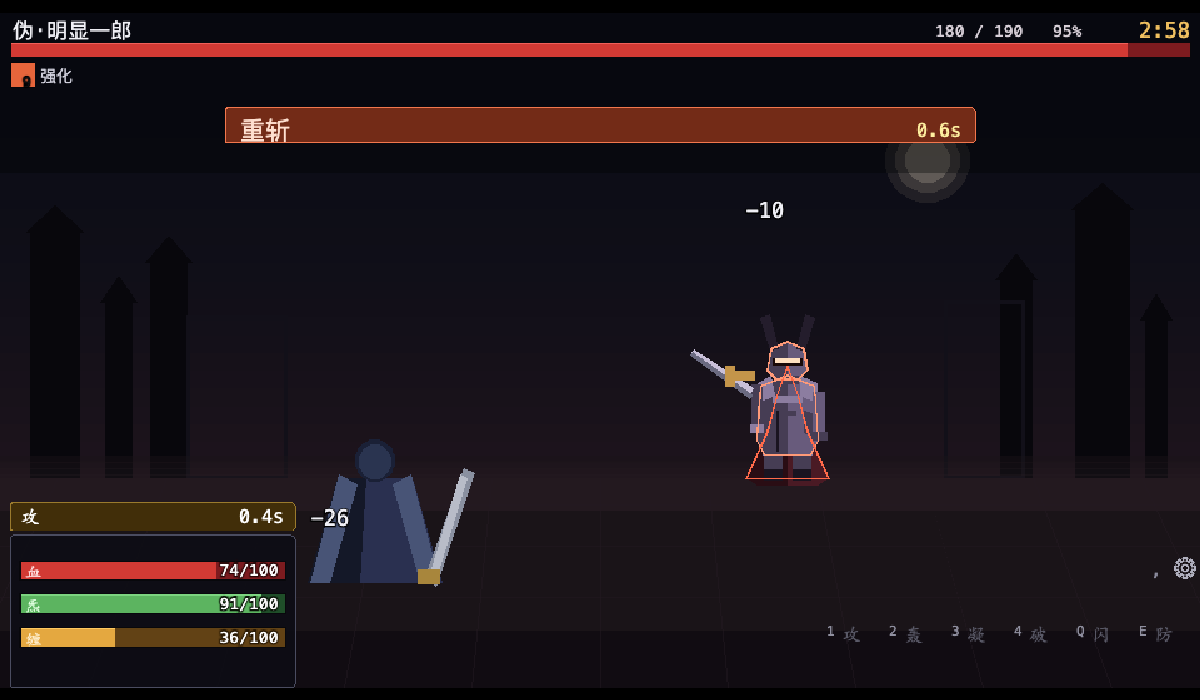
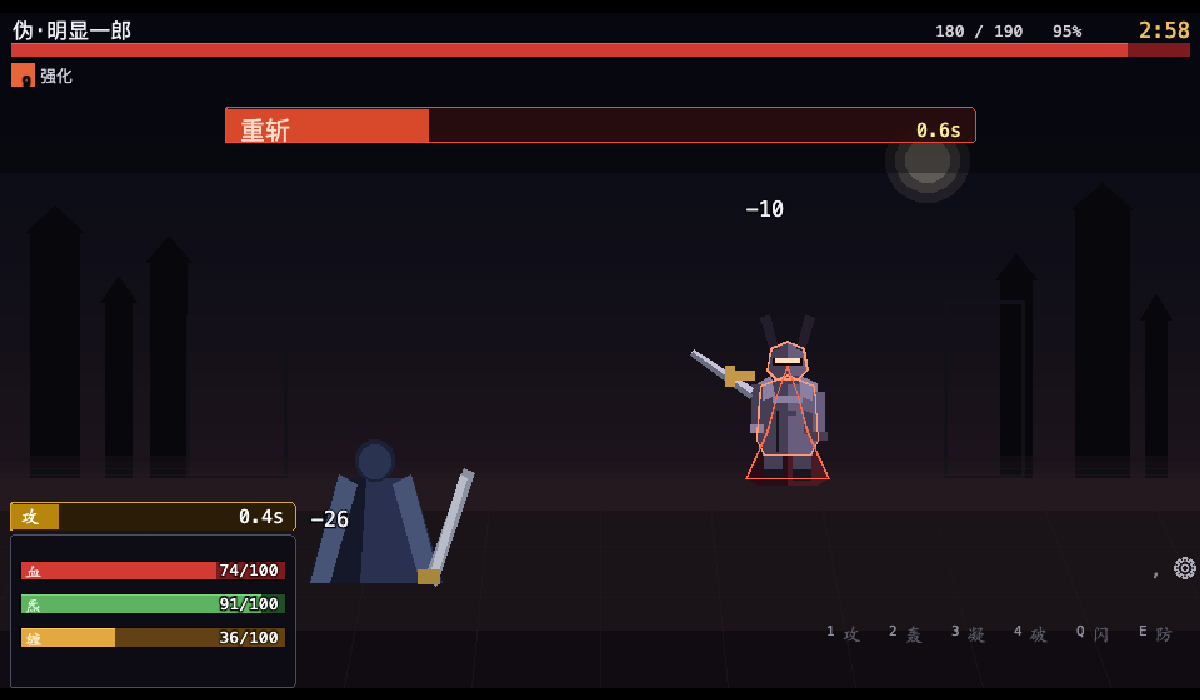
fix(ui): 读条改成「纯色方块从左往右长」（不是渐变）
我理解错了两轮，先澄清再改。

【需求原话】"背景色作为 progress。如果你听不懂就多问问我。
**渐变指的是 gradient**！"

也就是说：
  - ❌ **gradient**（整块面板颜色从暗到亮地过渡）—— 这是我做的，
    不是他要的
  - ✅ **纯色方块从左往右长**，像水位 / 电量条

我前两轮把"背景色作为 progress"读成了"整块背景的颜色随进度变化"
（也就是渐变），方向一直是错的。**当时就该问一句。**

【现在的结构】
  castPanel      暗色底（未完成的那一段）+ 描边，铺满整块
  castFill       **纯色**方块，宽度 = 进度 × 内部宽度
  技能名 / 秒数   画在两者之上

Boss 用暗红底 + 亮橙红方块；玩家用暗金底 + 金色方块。
两边形态完全一致，只靠色系区分"威胁"与"自己的动作"。

【顺带】去掉 `lerpColor` 的使用（渐变的产物），面板
`fillAlpha` 固定为 1，边框只在"快命中"时提亮。

465 测试 + lint + typecheck + build + CDP 端到端全过。

diff --git a/src/render/BattleScene.ts b/src/render/BattleScene.ts
@@ -17,7 +17,7 @@
  */
 
 import type { Application, Container, Graphics } from 'pixi.js';
-import { PALETTE, lerpColor } from './theme';
+import { PALETTE } from './theme';
 import { FONT, LAYOUT, LOGICAL, skillSlotLabels, skillSlotRect } from '../ui/layout';
 import { DISPLAY_SCALE } from '../data/balance';
 
@@ -484,6 +484,10 @@ export class BattleScene {
   private readonly castPanel: Panel;
   private readonly castName: Label;
   private readonly castHint: Label;
+  /** Boss 读条的纯色填充块（宽度随进度增长） */
+  private readonly castFill: Graphics;
+  /** 玩家读条的纯色填充块（宽度随进度增长） */
+  private readonly playerCastFill: Graphics;
   /** 玩家自己的读条（面板顶部）。与 Boss 预警条是**两套**对象 —— 见布局说明。 */
   private readonly playerCastPanel: Panel;
   private readonly playerCastName: Label;
@@ -619,26 +623,31 @@ export class BattleScene {
     });
     /**
     /**
-     * **背景色即进度**（需求明确：背景色作为 progress）。
+     * 读条 = **面板底 + 一块纯色方块从左往右长**（像水位 / 电量条）。
      *
-     * 形态演进（走过两次弯路，记下来避免再绕）：
-     *   1. 面板 + 一条 4px 细线 —— 细线看不清。
-     *   2. 改成"整块背景渐变" —— 我误以为"整块在变"不够像进度条，
-     *      于是又改回"独立的实心填充条"。
-     *   3. **回到背景色即进度**（当前）—— 需求要的就是这个：
-     *      整块面板从暗到亮，一眼扫过去就知道还剩多久，
-     *      比盯着一条 5px 的细条更省注意力。
+     * ------------------------------------------------------------------
+     * 需求澄清（我理解错过两次，记下来）
+     * ------------------------------------------------------------------
      *
-     * ⚠ 这里的**渲染顺序**踩过坑：读条面板曾经和玩家面板重叠，
-     * 而后者是后 `addChild` 的，于是深色面板把读条整块盖住 ——
-     * 表现为"读条一片暗"，我为此改了好几轮颜色都没用。
-     * 现在两者的矩形由布局测试保证**不重叠**（`playerCastBar` 在
-     * `player` 上方）。
+     * 需求原话是"背景色作为 progress"。"**渐变**"指的是 **gradient**
+     * —— 也就是"整块面板颜色从暗到亮地过渡"，那是**不要**的。
+     *
+     * 正确形态：面板是一层**暗色底**（未完成部分），进度用一块
+     * **纯色**（无渐变）从左边铺到右边，铺满面板内部高度。
+     * 这正是最经典的进度条：一眼能读出"还剩多少"。
+     *
+     * 所以结构是：
+     *   `castPanel`（暗底 + 描边，铺满整块）
+     *   `castFill`（纯色，宽度 = 进度 × 内部宽）
+     *   文字在两者之上
      */
     this.castPanel.root.visible = false;
+    this.castFill = new pixi.Graphics();
+    this.castFill.visible = false;
     this.castName.root.visible = false;
     this.castHint.root.visible = false;
-    hud.addChild(this.castPanel.root, this.castName.root, this.castHint.root);
+    // 顺序即层叠：底 → 填充 → 文字
+    hud.addChild(this.castPanel.root, this.castFill, this.castName.root, this.castHint.root);
 
     /* 玩家读条（面板顶部） */
     const pcb = LAYOUT.playerCastBar;
@@ -663,7 +672,8 @@ export class BattleScene {
       y: pcb.y,
       w: pcb.w,
       h: pcb.h,
-      fill: 0x241a08,
+      // 暗底 = "还没走完的那一段"
+      fill: 0x2a1c06,
       line: 0xd8a840,
       fillAlpha: 1,
       radius: 2,
@@ -692,10 +702,20 @@ export class BattleScene {
       anchorX: 1,
     });
     this.playerCastPanel.root.visible = false;
+    /**
+     * 玩家读条同样用"纯色方块从左往右长"，配色换暖金。
+     * 层叠顺序：暗底 → 纯色填充 → 文字。
+     */
+    this.playerCastFill = new pixi.Graphics();
+    this.playerCastFill.visible = false;
     this.playerCastName.root.visible = false;
     this.playerCastTime.root.visible = false;
-    // 背景色即进度，所以没有独立的进度条对象
-    hud.addChild(this.playerCastPanel.root, this.playerCastName.root, this.playerCastTime.root);
+    hud.addChild(
+      this.playerCastPanel.root,
+      this.playerCastFill,
+      this.playerCastName.root,
+      this.playerCastTime.root,
+    );
 
     /* 玩家面板：生命 / 缠 / 炁 **垂直排列** */
     const pf = LAYOUT.player;
@@ -978,17 +998,22 @@ export class BattleScene {
       this.castHint.setColor(cast.interruptible ? PALETTE.interrupt.bright : 0x30c8d0);
 
       /**
-       * 进度 → **整块背景色**：深红 → 亮橙。
+       * 进度 → **纯色方块宽度**（无渐变）。
        *
-       * 用整数插值（`lerpColor`）而不是每帧拼颜色：`Panel.set` 会重建
-       * Graphics，而颜色只有有限级数，插值到整数后重复值会被跳过。
+       * 底槽是暗红（未完成部分），方块是纯橙红（已完成部分）。
+       * 块宽按面板**内部**宽度算（左右各让 1px 给描边）。
        */
-      const t = Math.min(1, Math.max(0, cast.progress));
-      this.castPanel.set({
-        fill: lerpColor(0x3a0a0c, 0xff7a30, t),
-        fillAlpha: 1,
-        line: lerpColor(PALETTE.danger.base, 0xffe080, t),
-      });
+      const cbr = LAYOUT.castBar;
+      const fillW = Math.max(0, Math.round((cbr.w - 2) * Math.min(1, Math.max(0, cast.progress))));
+      this.castFill.clear();
+      if (fillW > 0) {
+        this.castFill
+          .rect(cbr.x + 1, cbr.y + 1, fillW, cbr.h - 2)
+          .fill({ color: 0xd8482a });
+      }
+      this.castFill.visible = true;
+      // 越接近命中，边框越亮 —— 把"快到了"变成视觉压力
+      this.castPanel.set({ line: cast.progress > 0.7 ? 0xffd060 : PALETTE.danger.base });
     }
 
     /* ---------- 玩家读条 ---------- */
@@ -1010,14 +1035,20 @@ export class BattleScene {
       this.playerCastName.set(translate(playerCast.nameKey));
       this.playerCastTime.set(`${(playerCast.remainingMs / 1000).toFixed(1)}s`);
       /**
-       * 进度 → **整块背景色**：深金 → 亮金（与 Boss 预警条同一形态，
-       * 配色换成暖色系 —— 红色是威胁、金色是自己的动作）。
+       * 进度 → **纯色方块宽度**（与 Boss 预警条同一形态，
+       * 配色换成暖金 —— 红色是威胁、金色是自己的动作）。
        */
-      const t = Math.min(1, Math.max(0, playerCast.progress));
+      const pbr = LAYOUT.playerCastBar;
+      const pw = Math.max(0, Math.round((pbr.w - 2) * Math.min(1, Math.max(0, playerCast.progress))));
+      this.playerCastFill.clear();
+      if (pw > 0) {
+        this.playerCastFill
+          .rect(pbr.x + 1, pbr.y + 1, pw, pbr.h - 2)
+          .fill({ color: 0xb8860f });
+      }
+      this.playerCastFill.visible = true;
       this.playerCastPanel.set({
-        fill: lerpColor(0x2a1c06, 0xd8a020, t),
-        fillAlpha: 1,
-        line: lerpColor(0x8a6a20, 0xffe080, t),
+        line: playerCast.progress > 0.7 ? 0xfff4c0 : 0xd8a840,
       });
     }
 
